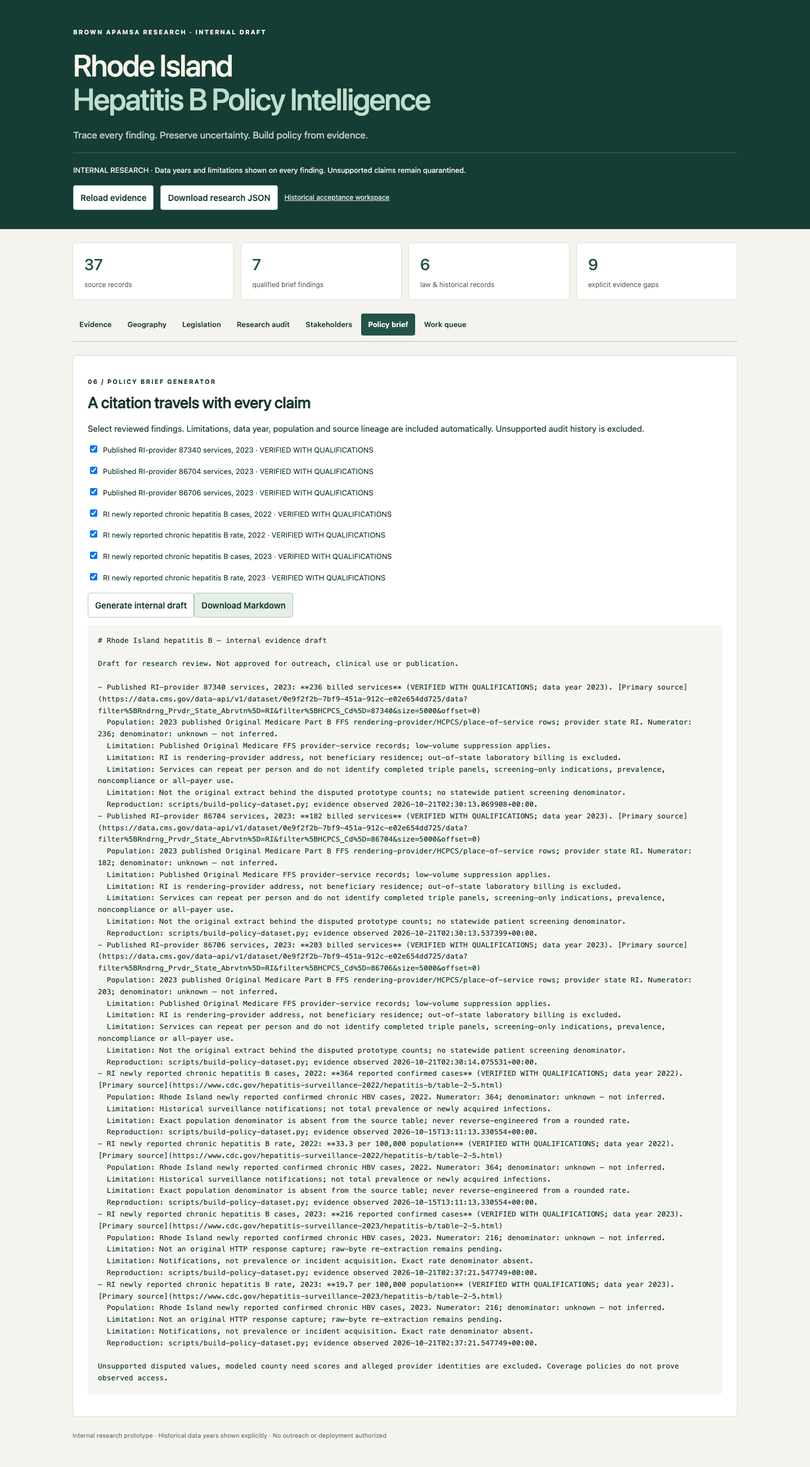
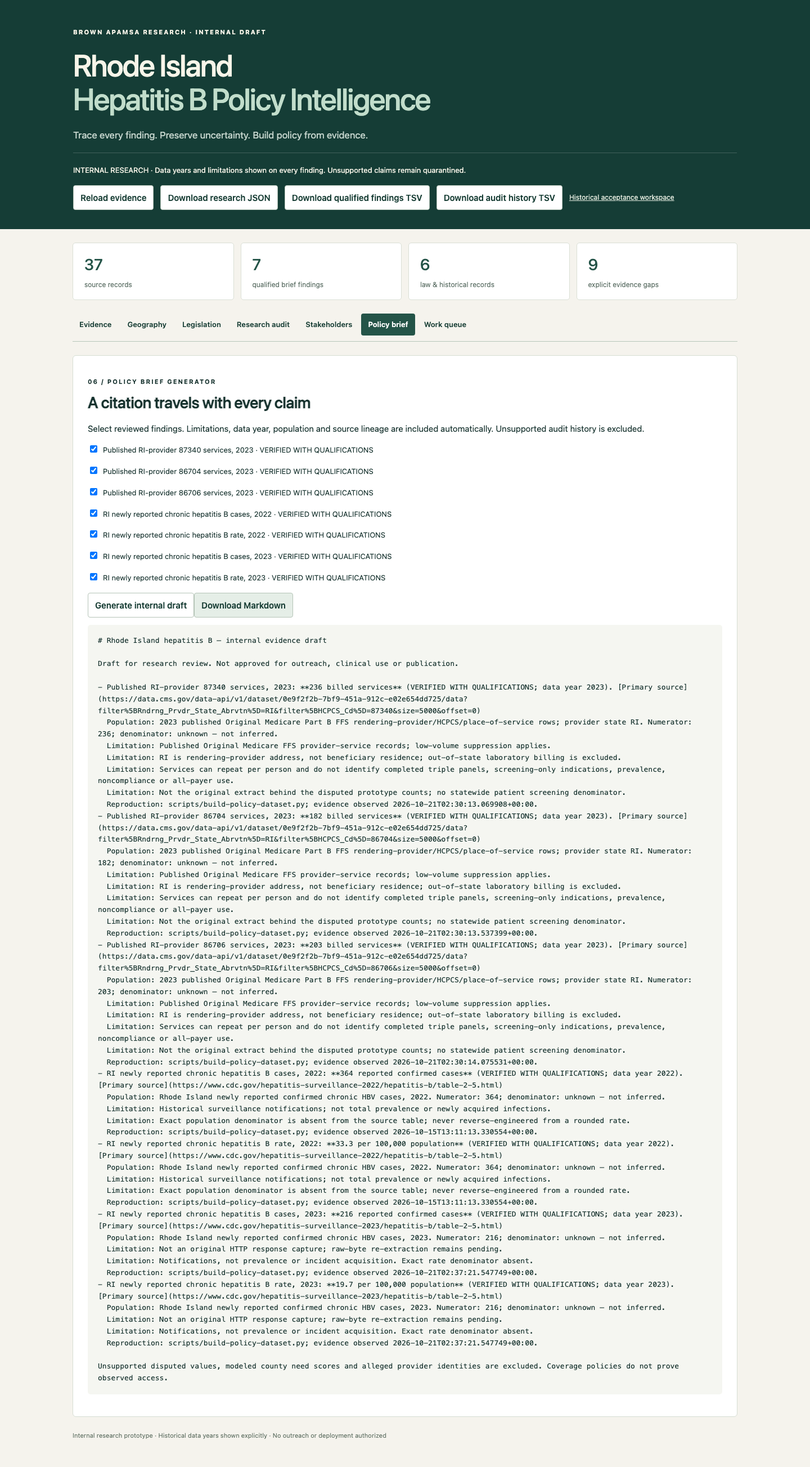
feat: deliver policy research workspace with verified Fleet export contribution

Changed region(s): [[0.3438, 0.1243, 0.7188, 0.1554]]

diff --git a/src/web/policy.html b/src/web/policy.html
@@ -1,5 +1,5 @@
 <!doctype html><html lang="en"><head><meta charset="utf-8"><meta name="viewport" content="width=device-width,initial-scale=1"><title>RI Hepatitis B · Policy Intelligence</title><link rel="stylesheet" href="/src/web/policy.css"></head><body>
-<header><div class="eyebrow">BROWN APAMSA RESEARCH · INTERNAL DRAFT</div><h1>Rhode Island<br><span>Hepatitis B Policy Intelligence</span></h1><p class="lede">Trace every finding. Preserve uncertainty. Build policy from evidence.</p><div id="status" role="status">Loading verified source registry…</div><div class="toolbar"><button id="reload">Reload evidence</button><button id="export" disabled>Download research JSON</button><a href="/">Historical acceptance workspace</a></div></header>
+<header><div class="eyebrow">BROWN APAMSA RESEARCH · INTERNAL DRAFT</div><h1>Rhode Island<br><span>Hepatitis B Policy Intelligence</span></h1><p class="lede">Trace every finding. Preserve uncertainty. Build policy from evidence.</p><div id="status" role="status">Loading verified source registry…</div><div class="toolbar"><button id="reload">Reload evidence</button><button id="export" disabled>Download research JSON</button><button id="export-qualified" disabled>Download qualified findings TSV</button><button id="export-audit" disabled>Download audit history TSV</button><a href="/">Historical acceptance workspace</a></div></header>
 <main><div id="metrics" class="metrics"></div><nav role="tablist" aria-label="Policy research sections"></nav>
 <section id="evidence" role="tabpanel"><div class="section-heading"><div><p class="eyebrow">01 / EVIDENCE EXPLORER</p><h2>Findings with a source trail</h2></div><label>Search claims and sources<input type="search" id="search" placeholder="CMS, chronic cases, vaccination…"></label></div><label>Status <select id="grade"><option value="all">All audit statuses</option><option>VERIFIED</option><option>VERIFIED WITH QUALIFICATIONS</option><option>INCONSISTENT</option><option>UNVERIFIED</option><option>NOT REPRODUCIBLE</option></select></label><div id="claims"></div><h3>Authoritative source registry</h3><div id="sources"></div></section>
 <section id="geography" role="tabpanel" hidden><p class="eyebrow">02 / GEOGRAPHIC ANALYSIS</p><h2>What the data can locate</h2><p class="notice">These are RI rendering-provider city locations in published 2023 Medicare FFS service records. They are not patient residence, county infection rates, screening coverage or need rankings. Out-of-state laboratory billing and suppressed rows are excluded.</p><div id="geo"></div><h3>County evidence gaps</h3><p>Providence, Washington, Kent, Newport and Bristol counties have no released HBV need score here. Official ACS denominators and margins of error were not retrieved. No fabricated map or modeled case allocation fills the gap.</p></section>

diff --git a/scripts/build-policy-dataset.py b/scripts/build-policy-dataset.py
@@ -71,7 +71,7 @@ def build():
   directory.append(dict(id=ident,organization=organization,role=role,sourceId=sid,sourceUrl=sources[sid]['url'],contact=contact,evidenceTimestamp=sources[sid]['retrievedAt'],outreachStatus='NOT CONTACTED; separate approval required',referralEndorsement=False))
  gaps=[('census','Official ACS denominators and margins of error unavailable','API returned HTML Missing Key; no demographic rankings or foreign-born denominator released.'),('perinatal','98.4% screening claim lacks eligible pregnancy cohort','Program existence does not validate screening coverage.'),('age-share','78.3% joint foreign-born/age claim lacks original case table','No numerator, denominator, age band or case definition established.'),('chronic138','138 chronic cases lacks original row and reconciled definition','Neither 364 (2022) nor 216 (2023) silently substitutes for the disputed claim.'),('lab-share','68.4% reference-laboratory share lacks reference classification and denominator','Clinical Laboratory specialty is not automatically a reference-lab billing classification.'),('county-need','County need scores are unvalidated demographic proxies','No observed county HBV burden, access denominator or validated weights.'),('bill-status','S0751 final legislative disposition unavailable','Introduced bill text is not enactment or an active current bill.'),('cdc-raw','Fresh CDC raw downloads returned HTTP 403','Historical XLSX retained; current official web observation labeled separately.'),('access','Patient-level Medicaid/Medicare barriers unmeasured','Coverage policies do not establish actual access, adherence or uninsured burden.')]
  queue=[dict(id=ident,front='A',objective=title,status='BLOCKED_SOURCE',detail=detail,executor='Unassigned; no independent executor implied') for ident,title,detail in gaps]
- queue += [dict(id='copilot-home',front='B',objective='Reproduce confined Copilot version-probe home resolution failure',status='CANDIDATE_REPAIR',detail='Native preflight failure captured; active runtime remains pinned.',executor='Codex desktop supervisor; not a claimed Fleet-generated repair'),dict(id='fleet-dispatch',front='B',objective='Bounded real research engineering through Fleet',status='AWAITING_ADMISSION',detail='Budget approved: <=3 subscription invocations. Existing isolation and token controls still required.',executor='Only freshly eligible configured provider may execute')]
+ queue += [dict(id='copilot-home',front='B',objective='Reproduce confined Copilot version-probe home resolution failure',status='CANDIDATE_REPAIR',detail='Native preflight failure captured; active runtime remains pinned.',executor='Codex desktop supervisor; not a claimed Fleet-generated repair'),dict(id='fleet-dispatch',front='B',objective='Bounded real research engineering through Fleet',status='LIVE_VERIFIED_WITH_RETAINED_FAILURES',detail='Three real Codex invocations: first delivered PR #2 but missed real-data integration; second rejected by independent verification; reserved recovery delivered PR #6 at 3b6edc251920445558d9088175a5ceb16eeea373. A separate quota admission suspended before inference. Budget exhausted; no further inference.',executor='Fleet scheduler, pinned 288af82; Codex gpt-6-sol; Codex desktop independent final review')]
  dataset=dict(schemaVersion=1,purpose='Internal policy research; draft materials only; no clinical or referral use',builtAt=datetime.datetime.now(datetime.timezone.utc).isoformat(),researchBaseline='a0d3036b11675c89dcfc8c2390709a7dcd119bdf',sources=list(sources.values()),claims=claims,legislation=policy,stakeholders=directory,geography=[dict(municipality=city,geographyType='Rendering-provider city; not resident county',datasetYear=2023,services={k:int(v) for k,v in values.items()},sourceIds=['cms-ri-2023-'+c for c in values],limitations='Published billing location only. No resident rates, need score, provider quality or unique-patient inference.') for city,values in sorted(geography.items())],workQueue=queue,gaps=[dict(id=i,title=t,detail=d) for i,t,d in gaps],warnings=['Disputed and prototype records remain audit-only and are excluded from generated briefs.','Null denominators are unknown, never zero. No national-to-RI substitution.','All findings refer to specified historical data years, not current infection prevalence.','No outreach, public publication, production deployment or treatment recommendation authorized.'])
  return dataset
 if __name__=='__main__':

diff --git a/scripts/check-policy-reproduction.py b/scripts/check-policy-reproduction.py
@@ -1,0 +1,9 @@
+#!/usr/bin/env python3
+"""Rebuild in memory; exclude only the build timestamp, never source evidence times."""
+import importlib.util,json,pathlib
+root=pathlib.Path(__file__).resolve().parent.parent
+spec=importlib.util.spec_from_file_location('policy_build',root/'scripts/build-policy-dataset.py')
+m=importlib.util.module_from_spec(spec);spec.loader.exec_module(m)
+expected=m.build();actual=json.loads((root/'data/processed/policy-intelligence.json').read_text())
+expected.pop('builtAt');actual.pop('builtAt');assert expected==actual,'Captured-data reproduction differs'
+print('Offline source hashes, fields, counts, audit history and policy registry reproduce exactly; only build timestamp excluded')

diff --git a/docs/dual-mandate/campaign-results.md b/docs/dual-mandate/campaign-results.md
@@ -1,0 +1,59 @@
+# Dual Mandate campaign results
+
+Campaign observations span October 20–21, 2026. The active Fleet executable remains pinned at `288af82e3c371f1f850448d6ffb459e18b9d7c92`; main is `9db164b698455062e387b72d51cd0d9c32d28d7a`. PR58 remains a draft. No merge, deployment, outreach, protected-model inference or paid API fallback occurred. Actual supervisor: Codex desktop. Antigravity and seven independent executor roles were not commissioned.
+
+## Research delivery
+
+The `/policy` application has seven functional sections: Evidence Explorer, provider-city geography, legislation/history, research audit, organizational directory, citation brief generation and work queue. The processed registry contains 36 claim/audit records (29 retained history, seven eligible findings), 37 source records including failed attempts and a separately labeled web observation, six legislation/history records, three provider cities, five organizational contacts and nine explicit evidence gaps. Quantitative facts retain source, year, field, population, numerator, denominator, extraction, code, timestamp and limitations. Unknown denominators remain null.
+
+The official 2023 CMS provider/service API yields RI rendering-provider service sums 236/182/203 for HCPCS 87340/86704/86706. Those are published Original Medicare FFS services, not unique people, resident geography, all-payer screening, completed panels or need. The original 767/607/593 reproduce only the prototype fixture and remain NOT REPRODUCIBLE as authoritative claims. The 68.4% reference-lab share, 78.3% foreign-born/age, 138 chronic cases and 98.4% perinatal coverage lack the required original definitions/denominators. County need scores remain unvalidated proxies and are excluded from policy briefs and allocation recommendations.
+
+Retained CDC 2022 XLSX gives 364 newly reported confirmed chronic cases and 33.3 per 100,000. Official 2023 web observation gives 216 and 19.7, separately qualified because original HTTP capture was blocked. These are notifications, not prevalence or new acquisition. No number silently replaces the disputed 138. ACS API HTTP200 HTML Missing Key responses are retained as failures, not fabricated demographic data.
+
+The active tattoo rule is separated from its superseded version. S0751 introduced text does not establish its final status or current activity. Historical H6472 is not a present screening mandate. The policy landscape, options memorandum, citation brief, complete audit matrix, qualified matrix, directory and unresolved-gaps memorandum are in this folder. No contact has been made and no clinical referral or organizational endorsement is inferred.
+
+## Genuine Fleet execution
+
+| Case | Native call | Outcome | Reported tokens |
+|---|---|---|---:|
+| Export, issue1 | 226c0f1e-08e8-4d37-a8a5-520642f207b4 | Draft PR2, ef505281ec546c6379334d24a98d0263ba551921; passed configured tests, then independent real-data review found a coverage gap | 14,836 |
+| History correction, issue3 | 489fefad-9728-48de-bad0-0b2b3d81d960 | Verification rejected; no delivery; original failure retained | 13,324 |
+| Recovery admission, issue4 | None | Fresh execution-time quota exhausted; suspended without an eligible successor or inference | 0 calls; no consumption inferred |
+| Reserved recovery, issue5 | fb1fe92f-1174-4be0-b729-869e3d11ed3a | Draft PR6, 3b6edc251920445558d9088175a5ceb16eeea373; complete real-registry contract passed | 14,659 |
+
+[Draft PR2](https://github.com/kevinsrun/apamsa-ri-hepb-policy-intelligence/pull/2) and [draft PR6](https://github.com/kevinsrun/apamsa-ri-hepb-policy-intelligence/pull/6) were opened by the real scheduler → engineer → Codex pathway with zero manual prompt relays. Model source changes are confined to `src/policy/export.mjs`. Tests, datasets, permissions and runtime were outside provider writable scope. The platform and source research were supervisor-authored; these calls do not prove autonomous source collection or statistical/legal review.
+
+Three calls total: 42,819 reported tokens, concurrency one, zero automatic retries. Per-task limits: one invocation, 180 seconds, 32KiB provider output, 1MiB artifacts, 40,000-token accounting ceiling. A native hard generation token cap is unverified and was expressly disclosed before operator authorization of the existing tool-free same-user profile. Monetary cost is unknown; no zero-dollar billing assertion. No invocation budget remains.
+
+## Fleet defects and independent repair
+
+[Engineering issue59](https://github.com/kevinsrun/engineering-fleet/issues/59) records the demonstrated defects. Corrections are in a separate checkout governed by the unchanged pinned runtime and proposed through existing draft [PR58](https://github.com/kevinsrun/engineering-fleet/pull/58):
+
+- Confined Copilot version probe lacked HOME/TMPDIR. Providing only the isolated workspace resolves uv_os_homedir ENOENT, but the native CLI next attempts a forbidden Library directory creation. Copilot remains ineligible; permissions were not broadened.
+- Four tests used URL.pathname for filesystem paths, causing 29 failures in a checkout containing spaces. fileURLToPath corrects only filesystem conversions; assertions and controls remain intact.
+- Failed verification placed artifact UUIDs into ledger artifactHashes. Future failure emission resolves owned artifacts, verifies bytes, retains ledger evidence and records SHA256 addresses. The original failed ledger is unchanged. A deterministic canonical-invocation regression proves failure, single call, no PR, no replay and verifiable evidence after correction.
+
+Repairs are supervisor-authored. Do not claim a fully autonomous Fleet self-repair loop. Full verification and exact-head CI results are recorded separately against their precise SHAs.
+
+## Evidence, accounting and readiness limits
+
+Independent snapshot audits verify all five artifact blobs per real invocation and the sole changed source path for delivered commits. Both completed-task ledgers verify with no unresolved transactions. The original rejected-task ledger has five invalid-evidence-address violations; those are preserved rather than rewritten. The actual quota suspension proves exhausted capacity cannot manufacture an eligible successor. Controlled backend-loss browser checks prove unavailable data clears claims, drafts and exports.
+
+Host execution-control accounts match reported native usage for all three calls. Generic Codex execution-ledger resource summaries remain UNKNOWN and do not include those measurements; host providerOutputBytes counts an adapter summary rather than complete native output. Native stream sizes and hashes are retained separately. These limitations block complete resource-accounting claims. Witness status for these Codex executions is UNWITNESSED; Fleet's local integrity receipt is not an independent signed provider attestation. Local signed-witness hardening elsewhere remains SIGNED_LOCAL_ONLY, not remote trust.
+
+| Capability | Classification |
+|---|---|
+| Structured research repository and offline calculations | IMPLEMENTED / TESTED |
+| Seven-section local application, downloads and backend-loss handling | LIVE VERIFIED in local Chromium; no public deployment |
+| Actual Fleet Codex source generation and draft contribution delivery | LIVE VERIFIED |
+| Real-registry export recovery | LIVE VERIFIED after retained failed task |
+| Quota exhaustion and absence of eligible successor | LIVE VERIFIED safe suspension |
+| Copilot eligibility | FAILED; remains blocked |
+| Isolated candidate repair and independent deterministic regression | IMPLEMENTED / TESTED; supervisor-authored |
+| Completed-task ledger integrity | LIVE VERIFIED on preserved copies |
+| Original failed-task ledger verification | FAILED; immutable historical evidence retained |
+| Complete native-byte/token accounting in every ledger view | UNVERIFIED / incomplete |
+| Fully autonomous mixed research/analysis/self-repair endurance | UNVERIFIED; actual scheduler workload was bounded coding, verification and delivery |
+| Independent remote witness custody and production readiness | UNVERIFIED / NO |
+
+Useful research and genuine engineering contributions were delivered. The full autonomous mixed-workload and production-readiness mission is not certified.

diff --git a/docs/dual-mandate/evidence-brief.md b/docs/dual-mandate/evidence-brief.md
@@ -1,0 +1,47 @@
+# Rhode Island hepatitis B — internal evidence draft
+
+Draft for research review. Not approved for outreach, clinical use or publication.
+
+- Published RI-provider 87340 services, 2023: **236 billed services** (VERIFIED WITH QUALIFICATIONS; data year 2023). [Primary source](https://data.cms.gov/data-api/v1/dataset/0e9f2f2b-7bf9-451a-912c-e02e654dd725/data?filter%5BRndrng_Prvdr_State_Abrvtn%5D=RI&filter%5BHCPCS_Cd%5D=87340&size=5000&offset=0)
+  Population: 2023 published Original Medicare Part B FFS rendering-provider/HCPCS/place-of-service rows; provider state RI. Numerator: 236; denominator: unknown — not inferred.
+  Limitation: Published Original Medicare FFS provider-service records; low-volume suppression applies.
+  Limitation: RI is rendering-provider address, not beneficiary residence; out-of-state laboratory billing is excluded.
+  Limitation: Services can repeat per person and do not identify completed triple panels, screening-only indications, prevalence, noncompliance or all-payer use.
+  Limitation: Not the original extract behind the disputed prototype counts; no statewide patient screening denominator.
+  Reproduction: scripts/build-policy-dataset.py; evidence observed 2026-10-21T02:30:13.069908+00:00.
+- Published RI-provider 86704 services, 2023: **182 billed services** (VERIFIED WITH QUALIFICATIONS; data year 2023). [Primary source](https://data.cms.gov/data-api/v1/dataset/0e9f2f2b-7bf9-451a-912c-e02e654dd725/data?filter%5BRndrng_Prvdr_State_Abrvtn%5D=RI&filter%5BHCPCS_Cd%5D=86704&size=5000&offset=0)
+  Population: 2023 published Original Medicare Part B FFS rendering-provider/HCPCS/place-of-service rows; provider state RI. Numerator: 182; denominator: unknown — not inferred.
+  Limitation: Published Original Medicare FFS provider-service records; low-volume suppression applies.
+  Limitation: RI is rendering-provider address, not beneficiary residence; out-of-state laboratory billing is excluded.
+  Limitation: Services can repeat per person and do not identify completed triple panels, screening-only indications, prevalence, noncompliance or all-payer use.
+  Limitation: Not the original extract behind the disputed prototype counts; no statewide patient screening denominator.
+  Reproduction: scripts/build-policy-dataset.py; evidence observed 2026-10-21T02:30:13.537399+00:00.
+- Published RI-provider 86706 services, 2023: **203 billed services** (VERIFIED WITH QUALIFICATIONS; data year 2023). [Primary source](https://data.cms.gov/data-api/v1/dataset/0e9f2f2b-7bf9-451a-912c-e02e654dd725/data?filter%5BRndrng_Prvdr_State_Abrvtn%5D=RI&filter%5BHCPCS_Cd%5D=86706&size=5000&offset=0)
+  Population: 2023 published Original Medicare Part B FFS rendering-provider/HCPCS/place-of-service rows; provider state RI. Numerator: 203; denominator: unknown — not inferred.
+  Limitation: Published Original Medicare FFS provider-service records; low-volume suppression applies.
+  Limitation: RI is rendering-provider address, not beneficiary residence; out-of-state laboratory billing is excluded.
+  Limitation: Services can repeat per person and do not identify completed triple panels, screening-only indications, prevalence, noncompliance or all-payer use.
+  Limitation: Not the original extract behind the disputed prototype counts; no statewide patient screening denominator.
+  Reproduction: scripts/build-policy-dataset.py; evidence observed 2026-10-21T02:30:14.075531+00:00.
+- RI newly reported chronic hepatitis B cases, 2022: **364 reported confirmed cases** (VERIFIED WITH QUALIFICATIONS; data year 2022). [Primary source](https://www.cdc.gov/hepatitis-surveillance-2022/hepatitis-b/table-2-5.html)
+  Population: Rhode Island newly reported confirmed chronic HBV cases, 2022. Numerator: 364; denominator: unknown — not inferred.
+  Limitation: Historical surveillance notifications; not total prevalence or newly acquired infections.
+  Limitation: Exact population denominator is absent from the source table; never reverse-engineered from a rounded rate.
+  Reproduction: scripts/build-policy-dataset.py; evidence observed 2026-10-15T13:11:13.330554+00:00.
+- RI newly reported chronic hepatitis B rate, 2022: **33.3 per 100,000 population** (VERIFIED WITH QUALIFICATIONS; data year 2022). [Primary source](https://www.cdc.gov/hepatitis-surveillance-2022/hepatitis-b/table-2-5.html)
+  Population: Rhode Island newly reported confirmed chronic HBV cases, 2022. Numerator: 364; denominator: unknown — not inferred.
+  Limitation: Historical surveillance notifications; not total prevalence or newly acquired infections.
+  Limitation: Exact population denominator is absent from the source table; never reverse-engineered from a rounded rate.
+  Reproduction: scripts/build-policy-dataset.py; evidence observed 2026-10-15T13:11:13.330554+00:00.
+- RI newly reported chronic hepatitis B cases, 2023: **216 reported confirmed cases** (VERIFIED WITH QUALIFICATIONS; data year 2023). [Primary source](https://www.cdc.gov/hepatitis-surveillance-2023/hepatitis-b/table-2-5.html)
+  Population: Rhode Island newly reported confirmed chronic HBV cases, 2023. Numerator: 216; denominator: unknown — not inferred.
+  Limitation: Not an original HTTP response capture; raw-byte re-extraction remains pending.
+  Limitation: Notifications, not prevalence or incident acquisition. Exact rate denominator absent.
+  Reproduction: scripts/build-policy-dataset.py; evidence observed 2026-10-21T02:37:21.547749+00:00.
+- RI newly reported chronic hepatitis B rate, 2023: **19.7 per 100,000 population** (VERIFIED WITH QUALIFICATIONS; data year 2023). [Primary source](https://www.cdc.gov/hepatitis-surveillance-2023/hepatitis-b/table-2-5.html)
+  Population: Rhode Island newly reported confirmed chronic HBV cases, 2023. Numerator: 216; denominator: unknown — not inferred.
+  Limitation: Not an original HTTP response capture; raw-byte re-extraction remains pending.
+  Limitation: Notifications, not prevalence or incident acquisition. Exact rate denominator absent.
+  Reproduction: scripts/build-policy-dataset.py; evidence observed 2026-10-21T02:37:21.547749+00:00.
+
+Unsupported disputed values, modeled county need scores and alleged provider identities are excluded. Coverage policies do not prove observed access.

diff --git a/README.md b/README.md
@@ -10,17 +10,27 @@ The policy application provides a searchable Evidence Explorer, qualified provid
 
 ## Reproduce and verify
 
-Install Python `openpyxl` and `pypdf` in a separate environment; the captured environment used openpyxl 3.1.5 and pypdf (version recorded in campaign evidence). No model is needed for reproduction.
+Install the pinned offline builder dependency with `python3 -m pip install -r requirements-policy.txt` (openpyxl 3.1.5). Source-document inspection used pypdf 6.10.0; it is not required for the offline builder. No model is needed for reproduction.
 
 - `python3 scripts/collect-policy-sources.py`: bounded, unauthenticated source capture; retains failures and immutable content-addressed bytes. Run only for an intentional refresh; this can change the evidence snapshot.
 - `python3 scripts/build-policy-dataset.py`: offline hash verification and deterministic calculations from retained evidence.
 - `npm test`: existing science and HTTP checks.
 - `npm run test:policy`: claim lineage, source hashes, policy/brief exclusion and real API failure checks.
 - `node scripts/policy-browser.mjs`: real Chromium interaction tests; use an existing Playwright installation via `APAMSA_PLAYWRIGHT_MODULE` if needed. Does not install browsers.
-- `node scripts/run-export-confined.mjs`: macOS deny-default, read-only execution of the pending feature acceptance contract for the separately scoped Fleet export task. It fails until the new module is delivered; the baseline on this development branch is explicitly experimental.
+- `node scripts/run-export-confined.mjs`: macOS deny-default, read-only execution of the independently authored export contract, including the complete real claim registry.
 
 `data/processed/policy-intelligence.json` is the clean research registry; `data/evidence/` contains original public source captures and retrieval manifests. `acceptance/scientific-claims.json` preserves disputed history. See [policy landscape](docs/dual-mandate/policy-landscape.md) and [preliminary options](docs/dual-mandate/policy-options.md).
 
 ## Fleet boundary
 
 The controlling executable is pinned separately to Fleet `288af82e3c371f1f850448d6ffb459e18b9d7c92`; no generated research code can replace it. The operator authorized at most three routine subscription invocations (two routine, one recovery reserve), concurrency one, zero automatic retries and no paid fallback. The existing Codex profile requires explicit same-user-host-access acknowledgment; the operator separately authorized its tool-free use with time/output limits and an accounting token ceiling. Native hard token enforcement remains unverified. Do not describe source-only model work as an independent epidemiological audit. No protected model usage is permitted.
+
+## Dual Mandate delivery
+
+Open `/policy` after `npm run serve` for the seven-section research workspace. No hosting or outreach is enabled. `python3 -m pip install -r requirements-policy.txt` provides the offline builder dependency. Reproduce captured bytes with `python3 scripts/check-policy-reproduction.py`; refresh the generated registry with `python3 scripts/build-policy-dataset.py`. Source retrieval is separate and may fail; retained manifests and bytes remain the source of this build. Run `node scripts/export-policy.mjs` to regenerate the complete audit matrix, qualified-only matrix, citation brief, stakeholder directory and gaps memorandum in `docs/dual-mandate/`.
+
+The exporter was genuinely generated through Fleet: original draft PR #2, a separately retained rejected task, then reserved recovery draft PR #6. Final model source commit: `3b6edc251920445558d9088175a5ceb16eeea373`. The delivered implementation passes the complete real-registry contract. Tests and data were independently authored, outside provider writable scope. The supervisor collected sources and implemented the platform; no autonomous research-collector or seven-agent topology is claimed.
+
+Run `npm test`, `npm run test:policy`, and `node scripts/run-export-confined.mjs` on the commissioned macOS profile. The last command fails closed on unsupported OSes. GitHub's read-only Linux workflow instead runs the pure contract directly on an ephemeral runner without provider credentials; it does not claim native macOS confinement. Real Chromium checks use the already-installed Playwright module via `APAMSA_PLAYWRIGHT_MODULE`; run `node scripts/policy-browser.mjs`.
+
+Three subscription calls used 42,819 reported tokens in total, including the rejected task. Cost is unmeasured, not asserted zero dollars. No further campaign inference is authorized. Two draft contributions were delivered automatically; no PR was merged. The separate failed/quota-suspended cases remain explicit. See campaign report and evidence manifest for ledger and witness limitations.

diff --git a/docs/dual-mandate/unresolved-evidence-gaps.md b/docs/dual-mandate/unresolved-evidence-gaps.md
@@ -1,0 +1,39 @@
+# Unresolved evidence gaps
+
+## Official ACS denominators and margins of error unavailable
+
+API returned HTML Missing Key; no demographic rankings or foreign-born denominator released.
+
+## 98.4% screening claim lacks eligible pregnancy cohort
+
+Program existence does not validate screening coverage.
+
+## 78.3% joint foreign-born/age claim lacks original case table
+
+No numerator, denominator, age band or case definition established.
+
+## 138 chronic cases lacks original row and reconciled definition
+
+Neither 364 (2022) nor 216 (2023) silently substitutes for the disputed claim.
+
+## 68.4% reference-laboratory share lacks reference classification and denominator
+
+Clinical Laboratory specialty is not automatically a reference-lab billing classification.
+
+## County need scores are unvalidated demographic proxies
+
+No observed county HBV burden, access denominator or validated weights.
+
+## S0751 final legislative disposition unavailable
+
+Introduced bill text is not enactment or an active current bill.
+
+## Fresh CDC raw downloads returned HTTP 403
+
+Historical XLSX retained; current official web observation labeled separately.
+
+## Patient-level Medicaid/Medicare barriers unmeasured
+
+Coverage policies do not establish actual access, adherence or uninsured burden.
+
+Source failures remain recorded. No outreach has occurred.
